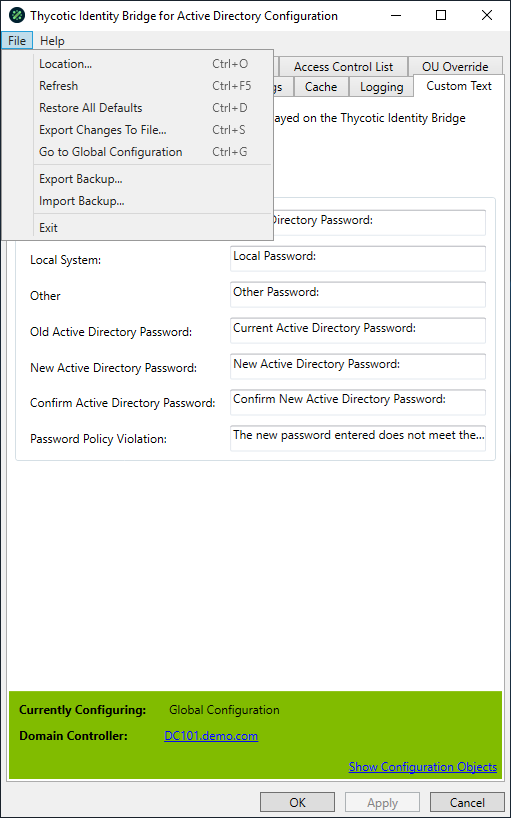
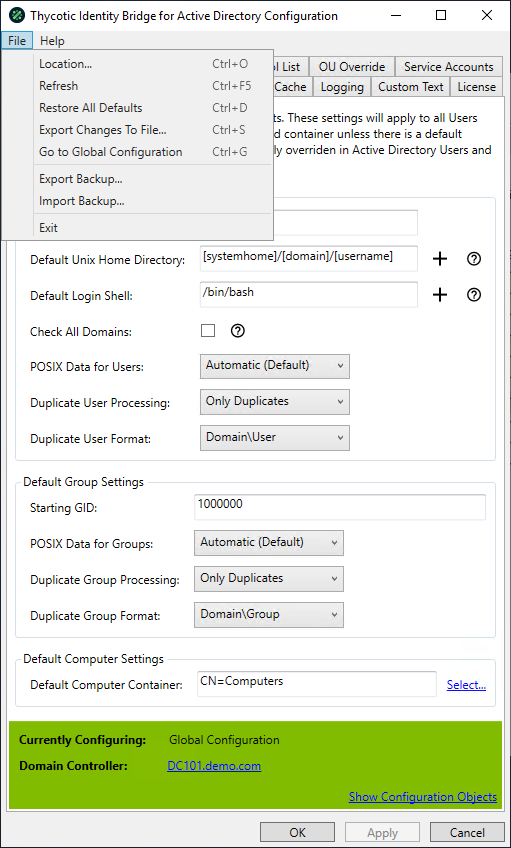
#213874: im-/export updates

diff --git a/cfg-util/index.md b/cfg-util/index.md
@@ -9,53 +9,58 @@ These values are used to enable the ID Bridge to manage the user authentication 
 
 The ID Bridge Configuration Utility will allow Global setting of all values and selected values at an OU level.Below are all panels that appear under the ID Bridge Configuration Utility, each page outlines the functionality of the Panel
 
-## File Menu
-
-### Export Backup
-
-### Import Backup
-
-## General
+## [General](general/index.md)
 
 Default settings of values for User, Group, and OU attributes, including starting Id’s, default home and shell parameters.
 
-## ACL (Access Control List)
+## [ACL (Access Control List)](acl/index.md)
 
 Assign Active directory groups at a global level to allow or deny login access to your Linux/Unix hosts.
 
-## Agent Settings
+## [Agent Settings](agent-settings/index.md)
 
 Defaults for setting agent specific values, including Cached Logins, time sync, home directory permissions, and character separators.
 
-## Attribute Mapping
+## [Attribute Mapping](attr-map/index.md)
 
 Allow Active directory values to be mapped to Thycotic ID Bridge fields. For example based on AD terms, Display Name is mapped to Unix Username.
 
-## Cache Settings
+## [Cache Settings](cache-set/index.md)
 
 Sets the amount of time the local Linux/Unix agent will store a copy of the users password within the agent's encrypted database. This is required in the event the Agent is unable to contact AD to verify the users credentials.
 
-## Customer Variables
+## [Customer Variables](cust-var/index.md)
 
 Allows the ID Bridge user to configure the custom attribute macros for use within the Default User & Group Settings.
 
-## Excluded Users
+## [Excluded Users](excl-users/index.md)
 
 Provide a list of local user accounts that will automatically bypass the Identity Bridge portion of the authentication stack.
 
-## License
+## [License](license/index.md)
 
 Licensing panel to view, add, and remove Thycotic ID Bridge licenses.
 
-## Logging
+## [Logging](logging/index.md)
 
 Allows the Linux/Unix host to utilize SysLog functionality, either logging the agent information locally or to a defined remote SysLog server.
 
-## Custom Text
+## [Custom Text](custom-msg/index.md)
 
 Allows custom messages to be defined. The messages are displayed to user when accessing the Linux/Unix hosts.
 
-## OU Override
+## [OU Override](ou-override/index.md)
 
 Shows an overview of where all Thycotic Identity Bridge configuration objects are stored in Active Directory.
 
+## [File Menu](file-menu/index.md)
+
+The [File Menu](file-menu/index.md) of the configuration utility offers options like:
+
+* Location: Opens the location selector.
+* Refresh: Refreshes configuration utility data.
+* Restore all Defaults: Restores the utilities data to default values.
+* Export Changes to File: Audit feature, only exports the changed values in the application.
+* Go to Global Configuration: If user is not already in the global configuration selecting this option navigates to it.
+* [Export Backup](file-menu/index.md#export_backup)
+* [Import Backup](file-menu/index.md#import_backup)

diff --git a/cfg-util/file-menu/index.md b/cfg-util/file-menu/index.md
@@ -1,6 +1,6 @@
 [title]: # (File Menu)
 [tags]: # (panel)
-[priority]: # (5)
+[priority]: # (6)
 # File Menu - Import/Export Backup
 
 The Thycotic Identity Bridge Configuration Utility provides the ability to Export and Import all settings from the Configuration Utility via a backup file (.IBBAK).
@@ -11,7 +11,10 @@ The functionality can be accessed view the File Menu and the menu items are __Ex
 
 ## Export Backup
 
-Opens a modal to provide a location and name for the settings to be exported to. Any applied licenses will not be included in the export.
+Opens a modal to provide a location and name for the settings to be exported to.
+
+* Any applied licenses will not be included in the export.
+* Any accounts defined in the Service Accounts Panel will not be exported.
 
 ## Import Backup
 
